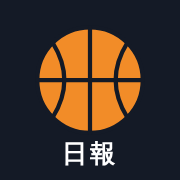
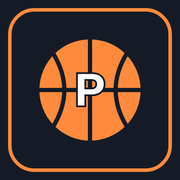
主畫面縮圖改成 P 字籃球（深色底、橘色外框），配合夜間球館配色
Claude-Session: https://claude.ai/code/session_01HopwfgGFDVuLryRgGNVia7

Changed region(s): [[0.0278, 0.0278, 0.9722, 0.9722]]

diff --git a/docs/index.html b/docs/index.html
@@ -790,7 +790,7 @@ function playoffCard(D) {
 
 
 // ---------- 更新紀錄（新的在最上面；true = 試做中，還沒放到即時版） ----------
-const CHANGES = [["點球員：該不該留加上適配性（球權分配、球風和球隊節奏、教練的信任度）", false], ["點球員：分析未來 5 場賽程偏軟還是偏硬（依對手勝率、連兩天）", false], ["更新標記：每個更新的地方有「✓ 確認」按鈕", false], ["「撿人排程」從戰況分頁移到陣容分頁", false], ["點球員：今年比去年差 5 分以上時，分析會不會反彈", false], ["自由球員分頁新增搜尋欄（名字、NBA 球隊、位置）", false], ["撿人排程：本週額度用完時也顯示「如果還有額度」的參考排程", false], ["球員比較加上最近 10 場每場得分折線圖", false], ["新增「球員比較」分頁：選兩位球員並排比較各項數據", false], ["今天要做的事、撿人排程、下週預覽裡提到的球員也可以點開", false], ["該不該留的建議裡提到的球員也可以點開", false], ["該不該留：去年明顯比較好的球員先建議觀察，不急著換掉", false], ["點球員名字：分析你的球員該不該留、自由球員值不值得撿", false], ["刪除陣容分頁的「季後賽賽程」", false], ["陣容、自由球員、各隊陣容表格新增球隊隊徽", false], ["新增上場分鐘變化（陣容、自由球員表格）、熱門撿人、連兩天比賽提醒、每週得分走勢圖", false], ["修正本週得分排名：排序時名次和中位數虛線跟著順序", false], ["聯盟分頁新增「本週得分排名」：目前得分和預估最終得分，標出中位數分界", false], ["聯盟總表：點預估戰績，看剩下每週預估贏誰、輸誰", false], ["本週對戰拿掉每天人數表（和剩餘賽程重複）", false], ["本週對戰：點每天得分的括號，看每位球員實際和預估差多少", false], ["新增「本週對戰」：每天兩隊有比賽的人數、每天實際得分和預估差多少、預估最終得分", false], ["新增「更新紀錄」分頁", false], ["「本週剩下每天」改名「剩餘賽程」", false], ["「今天的比賽」改成你和對手左右排", false], ["新增「季後賽賽程」：每位球員在季後賽各輪有幾場", false], ["新增「聯盟動態」：最近 3 天各隊撿人丟人，好球員被丟掉時標「可以搶」", false], ["新增「今天的比賽」：每人開打時間（台灣時間）、今天得分，DTD 先發開打前提醒", false], ["最上面改回淺色卡片，勝率和預估最終得分移到本週對決", false], ["對手主力括號拿掉「平均」兩字", false], ["改用「夜間球館」配色", false], ["整合重複功能：分頁減為戰況／陣容／自由球員／聯盟，聯盟總表合併季後賽機率", false], ["新增本週勝率、點球員名字看最近比賽與新聞、標出有重要新聞的球員", false], ["新增下週預覽、撿人排程、傷兵預計回歸日、季後賽機率", false], ["每週增補上限改成依本週 NBA 比賽日數計算", false], ["用電腦打開時自動變成寬版", false], ["加上主畫面圖示", false], ["新增交易分頁（之後刪除）", false], ["自由球員分頁顯示 waiver 順位", false], ["刪除聯盟排名分頁，新增各隊陣容判斷（核心、判斷、對你）", false], ["刪除傷兵分頁，新增球隊比較分頁", false], ["傷況標籤改成 DTD、OUT 等英文代號", false], ["自由球員：waiver 標籤顯示在名字後面，名字顏色跟判斷一致", false], ["陣容與自由球員表格可以點標題排序", false], ["自由球員獨立成分頁，並加上自由球員專用的判斷", false], ["陣容評估的球員名字不換行", false], ["陣容評估加上本週賽程、下週場數、判斷三欄，表格可左右滑", false], ["陣容表格改成陣容評估：加上位置、去年平均、持有率，近 7 場用顏色標示好壞", false], ["陣容表格拿掉 NBA 球隊名稱", false], ["加入即時版日報網頁", false]];
+const CHANGES = [["主畫面縮圖改成 P 字籃球（深色底、橘色外框）", false], ["點球員：該不該留加上適配性（球權分配、球風和球隊節奏、教練的信任度）", false], ["點球員：分析未來 5 場賽程偏軟還是偏硬（依對手勝率、連兩天）", false], ["更新標記：每個更新的地方有「✓ 確認」按鈕", false], ["「撿人排程」從戰況分頁移到陣容分頁", false], ["點球員：今年比去年差 5 分以上時，分析會不會反彈", false], ["自由球員分頁新增搜尋欄（名字、NBA 球隊、位置）", false], ["撿人排程：本週額度用完時也顯示「如果還有額度」的參考排程", false], ["球員比較加上最近 10 場每場得分折線圖", false], ["新增「球員比較」分頁：選兩位球員並排比較各項數據", false], ["今天要做的事、撿人排程、下週預覽裡提到的球員也可以點開", false], ["該不該留的建議裡提到的球員也可以點開", false], ["該不該留：去年明顯比較好的球員先建議觀察，不急著換掉", false], ["點球員名字：分析你的球員該不該留、自由球員值不值得撿", false], ["刪除陣容分頁的「季後賽賽程」", false], ["陣容、自由球員、各隊陣容表格新增球隊隊徽", false], ["新增上場分鐘變化（陣容、自由球員表格）、熱門撿人、連兩天比賽提醒、每週得分走勢圖", false], ["修正本週得分排名：排序時名次和中位數虛線跟著順序", false], ["聯盟分頁新增「本週得分排名」：目前得分和預估最終得分，標出中位數分界", false], ["聯盟總表：點預估戰績，看剩下每週預估贏誰、輸誰", false], ["本週對戰拿掉每天人數表（和剩餘賽程重複）", false], ["本週對戰：點每天得分的括號，看每位球員實際和預估差多少", false], ["新增「本週對戰」：每天兩隊有比賽的人數、每天實際得分和預估差多少、預估最終得分", false], ["新增「更新紀錄」分頁", false], ["「本週剩下每天」改名「剩餘賽程」", false], ["「今天的比賽」改成你和對手左右排", false], ["新增「季後賽賽程」：每位球員在季後賽各輪有幾場", false], ["新增「聯盟動態」：最近 3 天各隊撿人丟人，好球員被丟掉時標「可以搶」", false], ["新增「今天的比賽」：每人開打時間（台灣時間）、今天得分，DTD 先發開打前提醒", false], ["最上面改回淺色卡片，勝率和預估最終得分移到本週對決", false], ["對手主力括號拿掉「平均」兩字", false], ["改用「夜間球館」配色", false], ["整合重複功能：分頁減為戰況／陣容／自由球員／聯盟，聯盟總表合併季後賽機率", false], ["新增本週勝率、點球員名字看最近比賽與新聞、標出有重要新聞的球員", false], ["新增下週預覽、撿人排程、傷兵預計回歸日、季後賽機率", false], ["每週增補上限改成依本週 NBA 比賽日數計算", false], ["用電腦打開時自動變成寬版", false], ["加上主畫面圖示", false], ["新增交易分頁（之後刪除）", false], ["自由球員分頁顯示 waiver 順位", false], ["刪除聯盟排名分頁，新增各隊陣容判斷（核心、判斷、對你）", false], ["刪除傷兵分頁，新增球隊比較分頁", false], ["傷況標籤改成 DTD、OUT 等英文代號", false], ["自由球員：waiver 標籤顯示在名字後面，名字顏色跟判斷一致", false], ["陣容與自由球員表格可以點標題排序", false], ["自由球員獨立成分頁，並加上自由球員專用的判斷", false], ["陣容評估的球員名字不換行", false], ["陣容評估加上本週賽程、下週場數、判斷三欄，表格可左右滑", false], ["陣容表格改成陣容評估：加上位置、去年平均、持有率，近 7 場用顏色標示好壞", false], ["陣容表格拿掉 NBA 球隊名稱", false], ["加入即時版日報網頁", false]];
 const changesPane = () => `<div class="pane" id="p8"><section class="card">
     <h2>更新紀錄 <small>目前 v${CHANGES.length}</small></h2>
     ${CHANGES.map(([t, trial], i) => `<div class="move chg"><b class="ver">v${CHANGES.length - i}</b><span>${esc(t)}${trial ? '<span class="wv">試做中</span>' : ""}</span></div>`).join("")}
